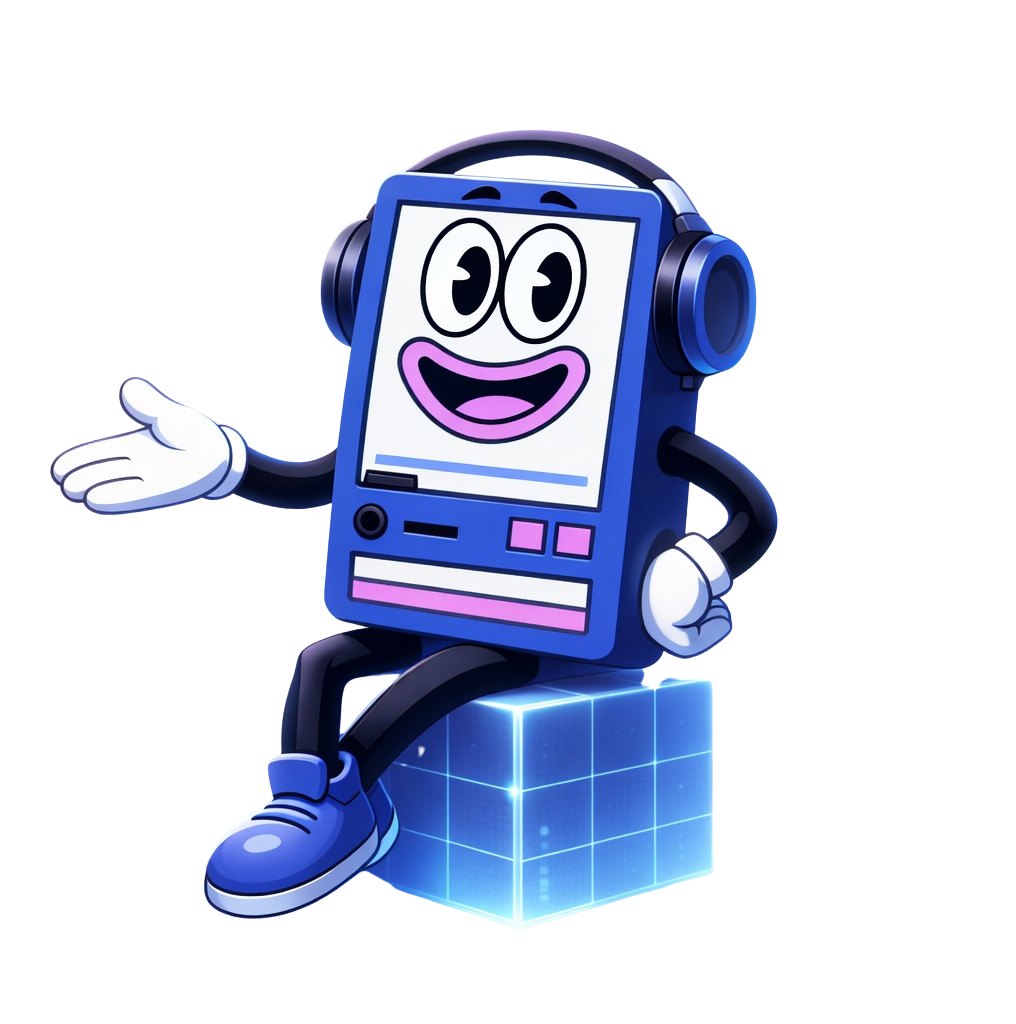
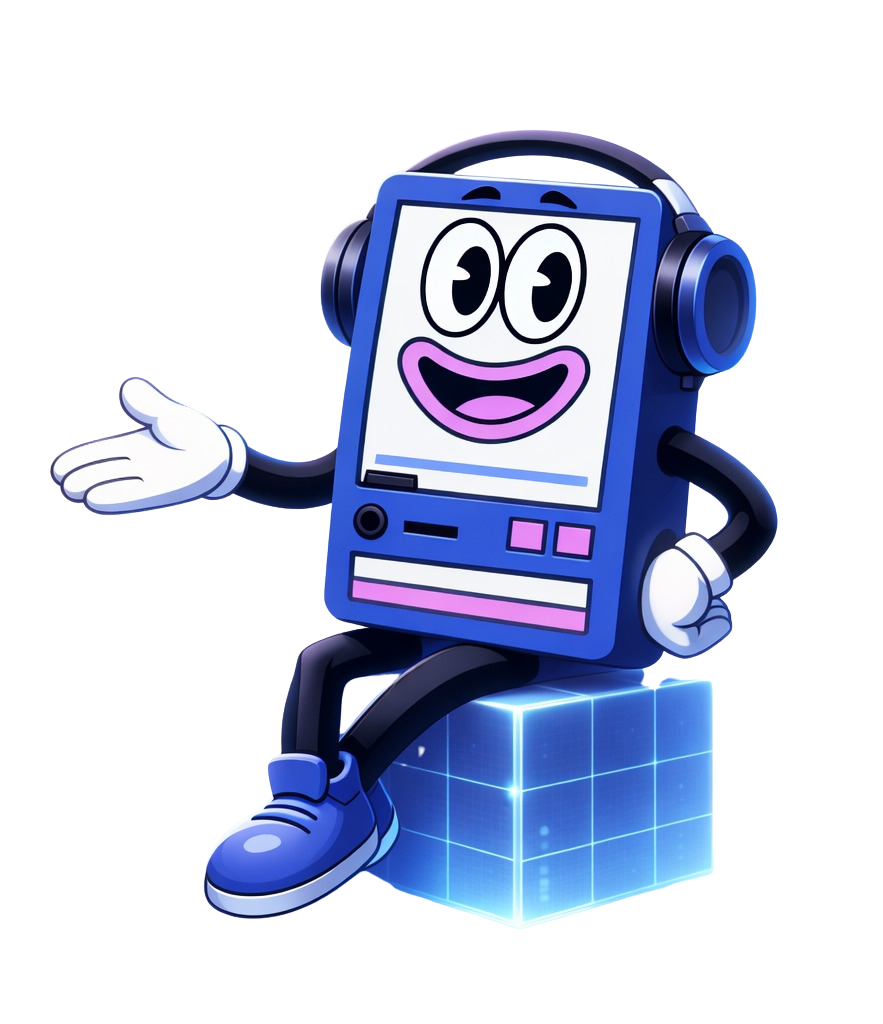
Improve homepage layout and add machines section

diff --git a/src/components/Hero.jsx b/src/components/Hero.jsx
@@ -118,7 +118,7 @@ export function Hero() {
                 alt="Zura Touch mascot"
                 fetchPriority="high"
                 decoding="async"
-                className="relative w-88 max-w-[98vw] sm:w-[28rem] md:w-[36rem] lg:w-[44rem] xl:w-[50rem] h-auto drop-shadow-[0_40px_80px_rgba(0,0,0,0.9)] sm:-translate-x-1 md:-translate-x-3 lg:translate-x-0"
+                className="relative w-88 max-w-[98vw] sm:w-[28rem] md:w-[36rem] lg:w-[44rem] xl:w-[50rem] h-auto drop-shadow-[0_40px_80px_rgba(0,0,0,0.9)] translate-x-5"
                 initial={{ opacity: 0, y: 30, scale: 0.95 }}
                 animate={{ opacity: 1, y: [0, -14, 0], scale: 1 }}
                 transition={{
